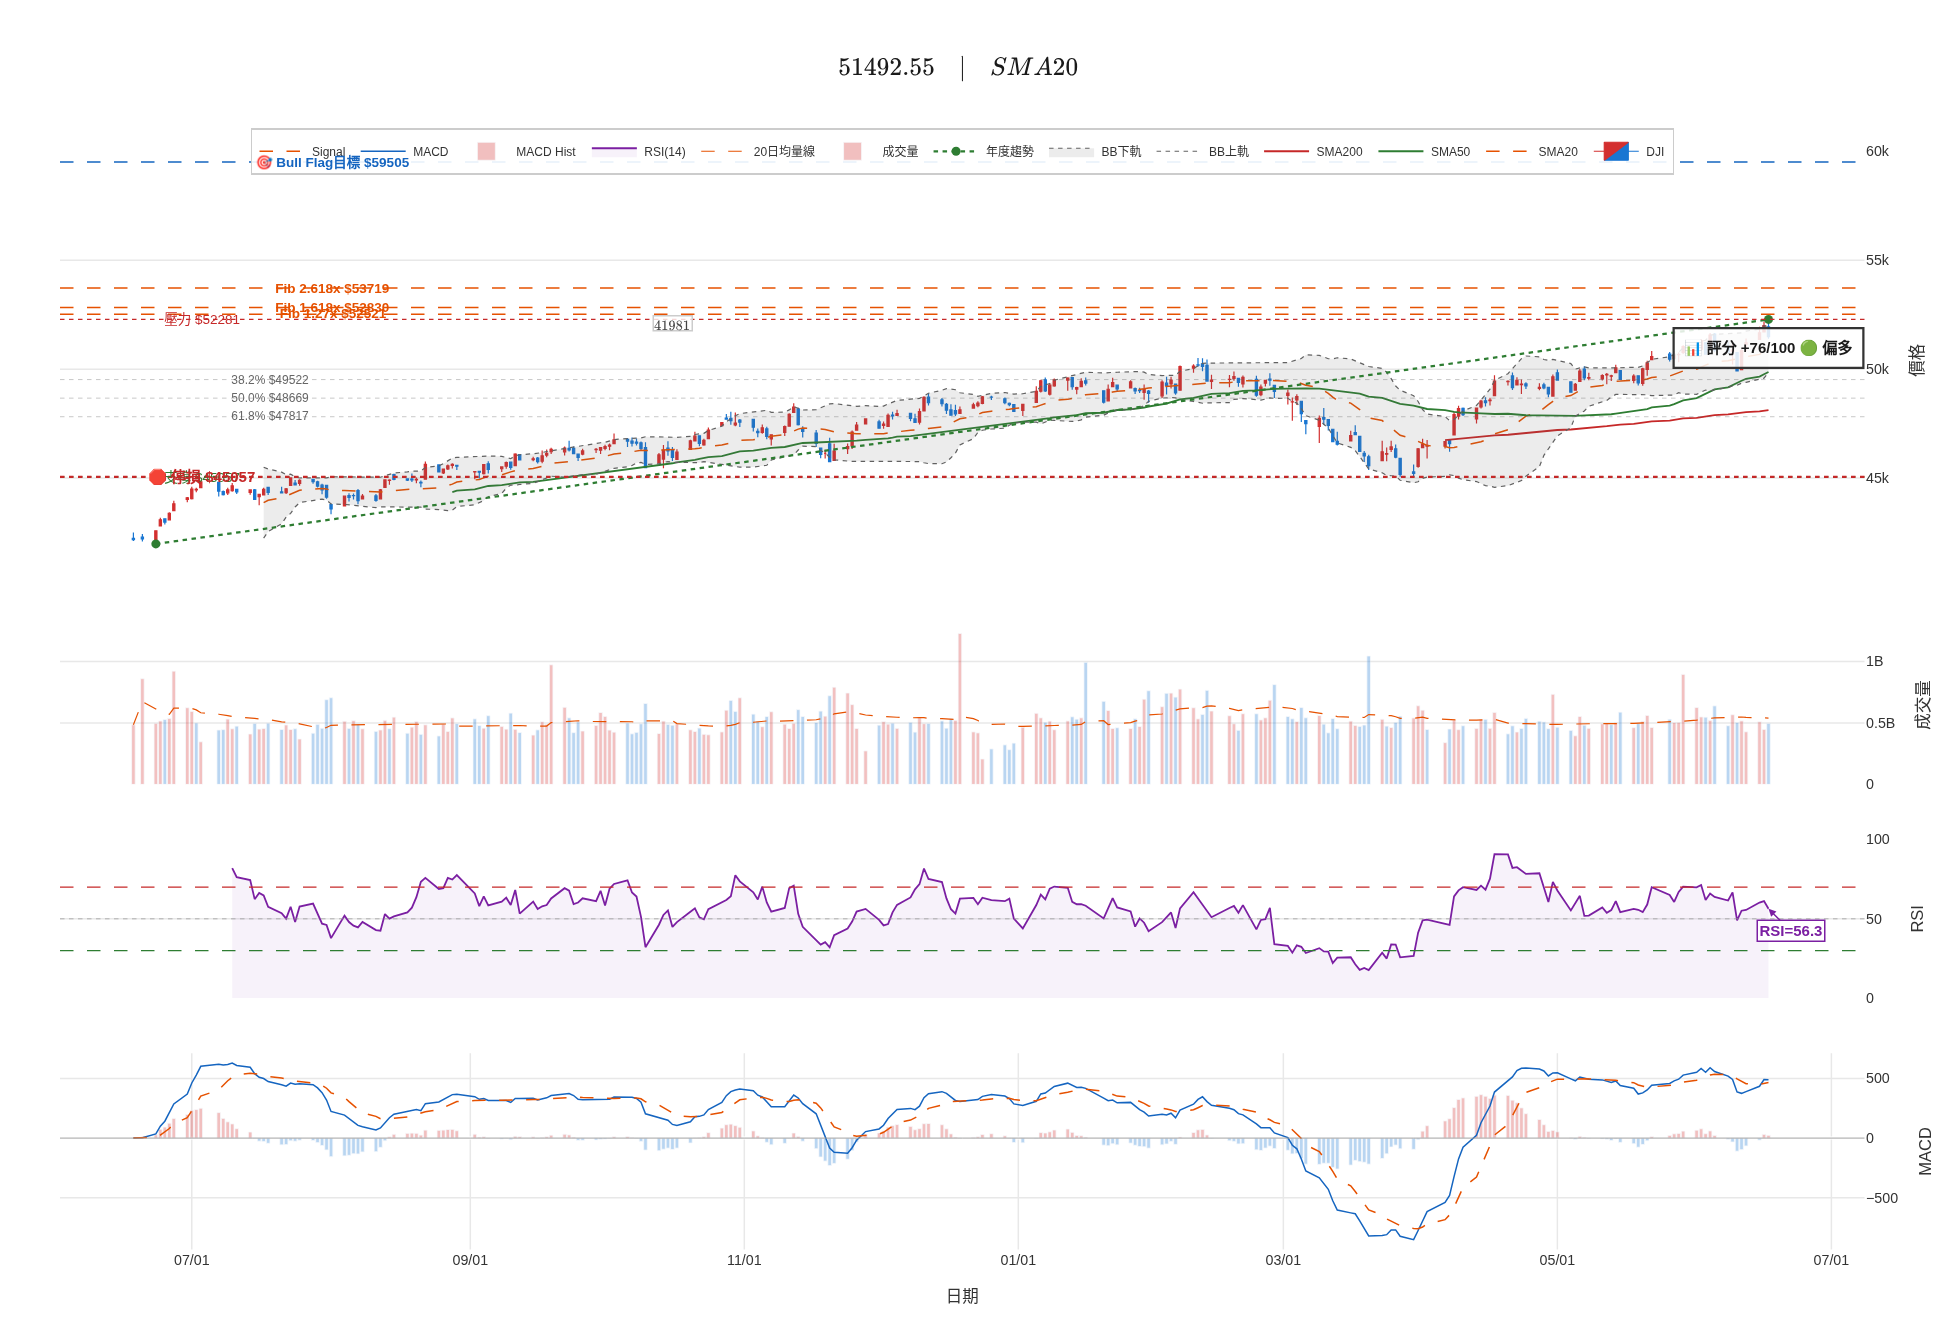
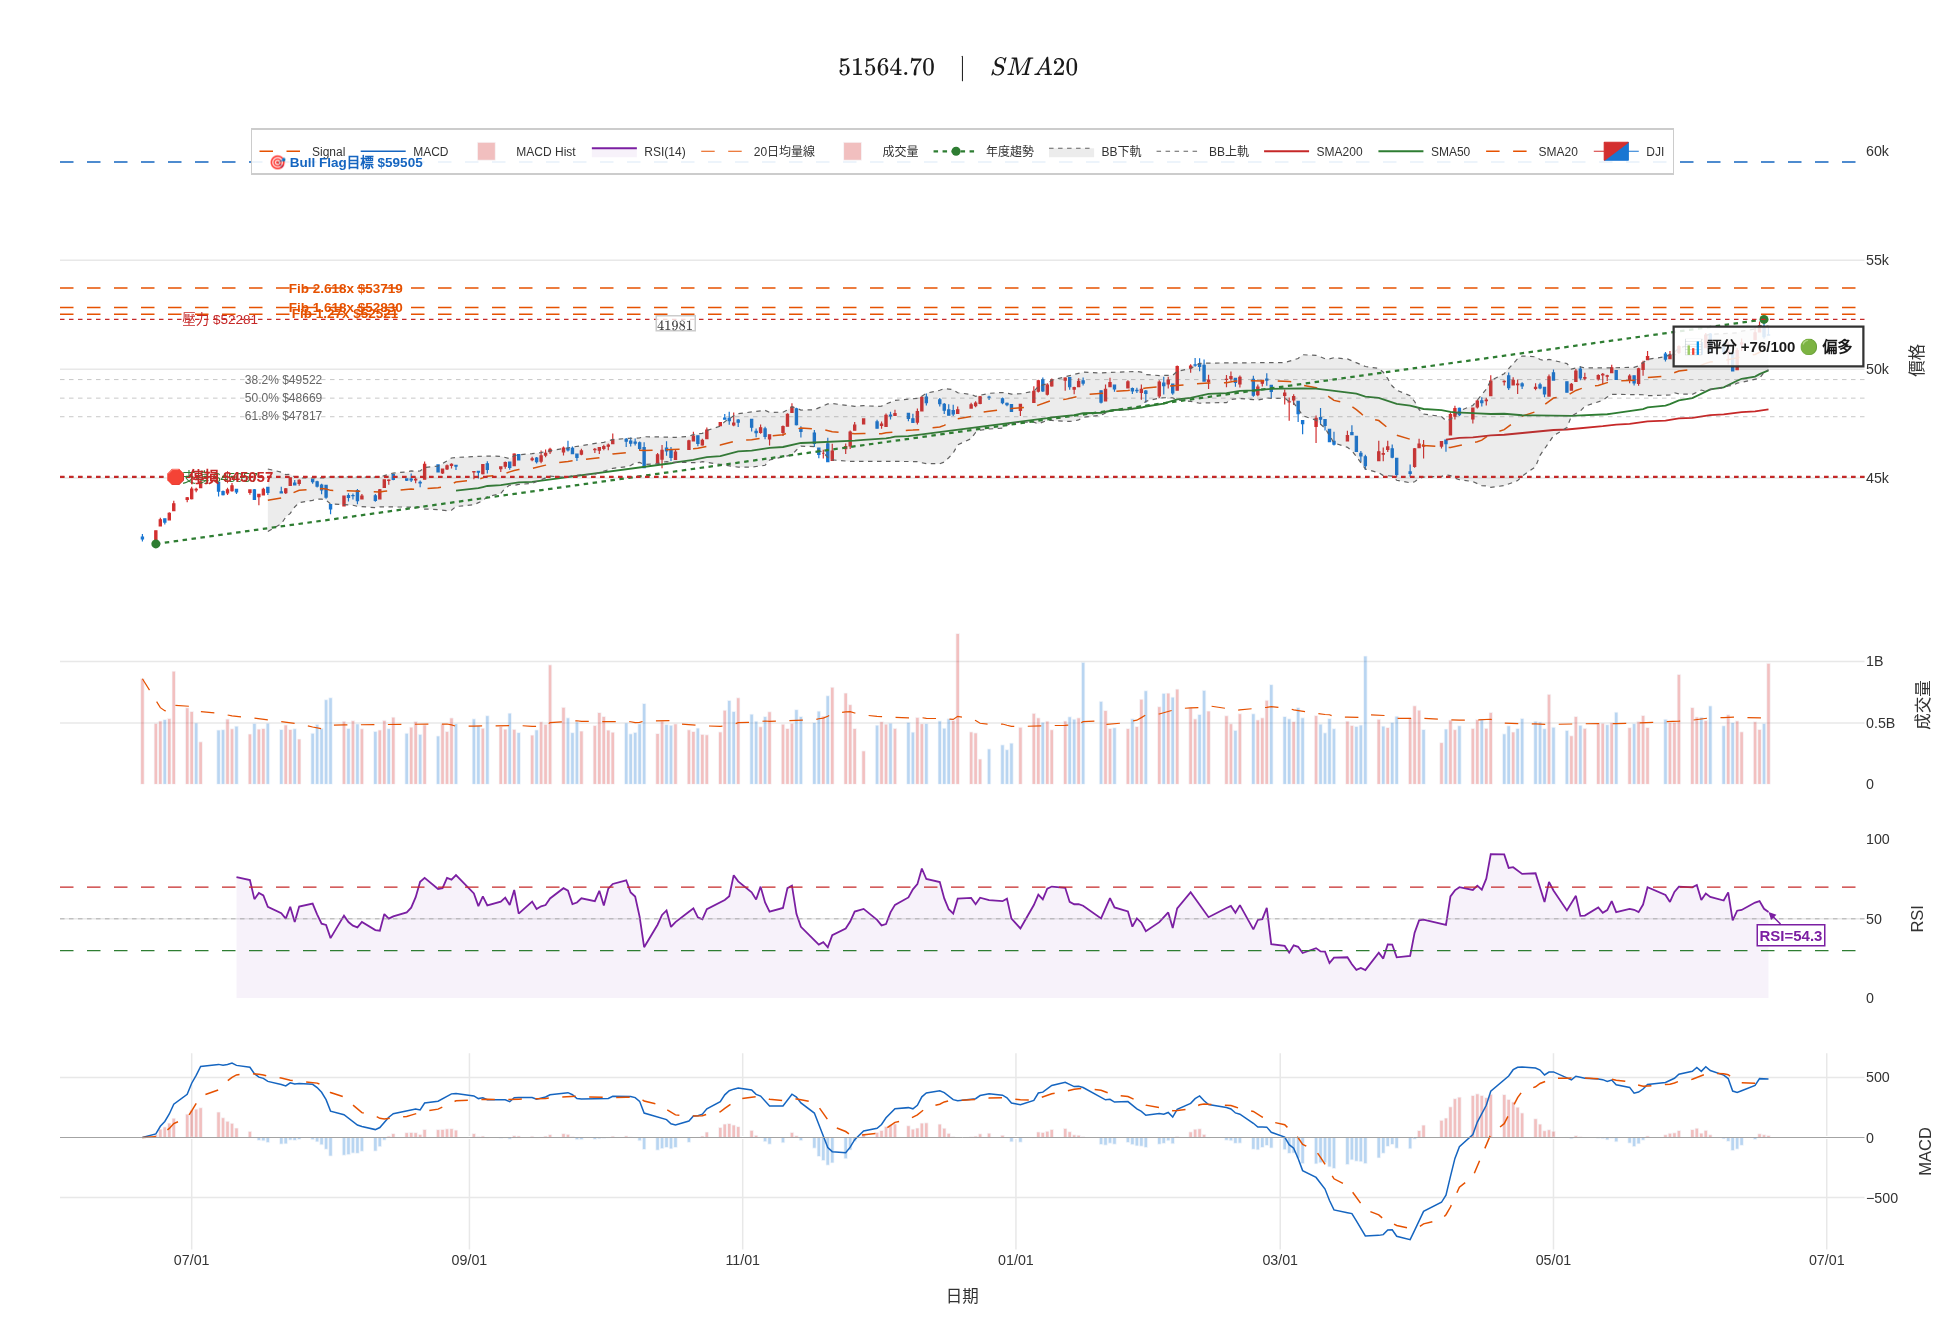
charts: 更新 2026-06-19 技術圖

diff --git a/charts/index.html b/charts/index.html
@@ -39,27 +39,27 @@ body { font-family:'Noto Sans TC',sans-serif; background:#f5f0e8; color:#1a1714;
   <a href="../">← 回首頁</a>
 </div>
 <div class="container">
-  <div class="date-badge">📅 2026/06/17 收盤</div>
+  <div class="date-badge">📅 2026/06/19 收盤</div>
   <div class="chart-grid">
     <div class="chart-card">
       <img src="dji.png" alt="道瓊工業指數">
-      <div class="info"><h3>道瓊工業指數 DJI</h3><p>51,492.55 (-0.98%) · RSI 58.4</p></div>
+      <div class="info"><h3>道瓊工業指數 DJI</h3><p>51,564.70 (+0.14%) · RSI 54.3</p></div>
     </div>
     <div class="chart-card">
       <img src="sox.png" alt="費城半導體指數">
-      <div class="info"><h3>費城半導體指數 SOX</h3><p>13,477.07 (+1.38%) · RSI 58.4</p></div>
+      <div class="info"><h3>費城半導體指數 SOX</h3><p>14,341.78 (+6.42%) · RSI 59.6</p></div>
     </div>
     <div class="chart-card">
       <img src="ixic.png" alt="納斯達克指數">
-      <div class="info"><h3>納斯達克指數 IXIC</h3><p>26,021.66 (-1.34%) · RSI 50.2</p></div>
+      <div class="info"><h3>納斯達克指數 IXIC</h3><p>26,517.93 (+1.91%) · RSI 45.6</p></div>
     </div>
     <div class="chart-card">
       <img src="tsm.png" alt="台積電 ADR">
-      <div class="info"><h3>台積電 ADR (TSM)</h3><p>$432.15 (+1.48%) · RSI 55.5</p></div>
+      <div class="info"><h3>台積電 ADR (TSM)</h3><p>$462.12 (+6.94%) · RSI 61.5</p></div>
     </div>
     <div class="chart-card">
       <img src="intc.png" alt="Intel">
-      <div class="info"><h3>Intel (INTC)</h3><p>$121.10 (+3.46%) · RSI 57.3</p></div>
+      <div class="info"><h3>Intel (INTC)</h3><p>$133.99 (+10.64%) · RSI 61.0</p></div>
     </div>
     <div class="chart-card" style="cursor:pointer;" onclick="location.href='taiex-technical.html'">
       <div style="height:160px;background:linear-gradient(135deg,#1a1a2e,#16213e);display:flex;align-items:center;justify-content:center;">
